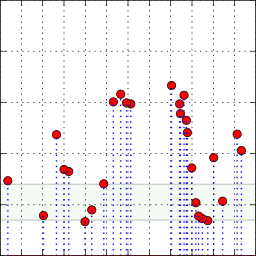
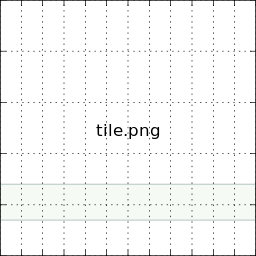
nifty tiles

diff --git a/src/data/lib.js b/src/data/lib.js
@@ -1,0 +1,109 @@
+
+
+/*
+// clone of Linden Lab stuff?
+// http://code.google.com/p/openmetaverse/source/browse/trunk/Simian/GridFrontend/map.php?r=425
+// The relative or absolute URL of your SimianGrid map tile folder
+var TILE_HOST = "/Grid/map/";
+
+// The maximum width/height of the grid in regions (must be a power of two)
+var GRID_WIDTH_IN_REGIONS = 1;
+// Map from a GRID_WIDTH_IN_REGIONS x GRID_WIDTH_IN_REGIONS square to Lat/Long (0, 0),(-90, 90) 
+var SCALE_FACTOR = 90.0 / GRID_WIDTH_IN_REGIONS;
+
+// Override the default Mercator projection with Euclidean projection
+// (insert oblig. Flatland reference here)
+function EuclideanProjection() {
+};
+
+EuclideanProjection.prototype.fromLatLngToPoint = function(latLng, opt_point) {
+        var point = opt_point || new google.maps.Point(0, 0);
+        
+    point.x = latLng.lng() / SCALE_FACTOR;
+    point.y = latLng.lat() / SCALE_FACTOR;
+    
+        return point;
+};
+
+EuclideanProjection.prototype.fromPointToLatLng = function(point) {
+    var lng = point.x * SCALE_FACTOR;
+    var lat = point.y * SCALE_FACTOR;
+    
+        return new google.maps.LatLng(lat, lng, true);
+};
+*/
+
+// Configure options for the map
+/*
+var imageMapOptions = {
+        getTileUrl: function(coord, zoom) {
+                var gridZoom = 8 - zoom;
+            var regions_per_tile_edge = Math.pow(2, gridZoom - 1);
+                
+            // Convert from tile coordinates to world coordinates
+                var x = coord.x * regions_per_tile_edge;
+                var y = coord.y * regions_per_tile_edge;
+                
+                // Flip the y axis
+            y = -y;
+                
+            // Orient the y axis from the bottom-left corner instead of the top-left
+            y -= regions_per_tile_edge;
+            
+            // Adjust x/y to the lower-left tile for this zoom level
+            x -= x % regions_per_tile_edge;
+            y -= y % regions_per_tile_edge;  
+            
+            return TILE_HOST + "map-" + gridZoom + "-" + x + "-" + y + "-objects.png";
+        },
+        tileSize: new google.maps.Size(256, 256),
+        minZoom: 0,
+        maxZoom: 7,
+        isPng: true
+};
+*/
+
+
+// http://facstaff.unca.edu/mcmcclur/GoogleMaps/Projections/Geographic.html
+// this is v2??
+/*
+function GeographicProjection() {};
+GeographicProjection.prototype = new GProjection();
+GeographicProjection.prototype.fromPixelToLatLng = function(pixel, zoom) {
+  return new GLatLng(
+    90 - 45*pixel.y/Math.pow(2,zoom + 5),
+    (45*pixel.x/Math.pow(2,zoom + 5)) - 180);
+};
+GeographicProjection.prototype.fromLatLngToPixel = function(latLng, zoom) {
+  return new GPoint(
+    Math.floor((latLng.lng() + 180)*Math.pow(2, zoom+5)/45),
+    Math.floor((90 - latLng.lat())*Math.pow(2, zoom+5)/45));
+};
+GeographicProjection.prototype.tileCheckRange = function(tileIndex, zoom, bs) {
+  if(0 <= tileIndex.x && tileIndex.x < Math.pow(2,zoom) &&
+     0 <= tileIndex.y && tileIndex.y < Math.pow(2,zoom-1)) {
+       return true;}
+  else { return false; };
+};
+GeographicProjection.prototype.getWrapWidth = function(zoom) {
+  return Math.pow(2,zoom+8);
+};
+
+*/
+
+// http://stackoverflow.com/questions/2915944/replacing-gtilelayer-in-google-maps-v3-with-imagemaptype-tile-bounding-box
+/*
+var StackOverFlowSimpleMapType = new google.maps.ImageMapType({
+  getTileUrl: function(coord,zoom) { 
+    var proj = map.getProjection();
+    var zfactor=Math.pow(2,zoom);
+    var top=proj.fromPointToLatLng(new google.maps.Point(coord.x*256/zfactor,coord.y*256/zfactor));
+    var bot=proj.fromPointToLatLng(new google.maps.Point((coord.x+1)*256/zfactor,(coord.y+1)*256/zfactor));
+    url = "/layer/layer_"+zoom+"_"+top.lng().toFixed(6)+"_"+bot.lat().toFixed(6)+"_"+bot.lng().toFixed(6)+"_"+top.lat().toFixed(6)+".png";
+return url; 
+},
+tileSize: new google.maps.Size(256, 256),
+isPng: true,
+});
+
+*/

diff --git a/src/data/map.html b/src/data/map.html
@@ -64,7 +64,7 @@
   prefix = "file:///home/bewest/Documents/bb/diabetes/src/data/"
   var HelloLayer = new google.maps.ImageMapType({
     getTileUrl: function(ll, z) {
-      var url = prefix + "./test.png#?" + z + "/" + ll.x + "/" + ll.y + "";
+      var url = prefix + "tiles/t-" + ll.x + "-" + ll.y + ".png#" + z;
       console.log( this, arguments, url );
       return url;
     },
@@ -147,6 +147,11 @@ var getTile = function( coord,  zoom ) {
 
 // HelloLayer.projection = new HelloProjection();  
 
+function logevent( ) {
+  console.log( 'event', this, arguments );
+  console.log( 'projection?', this.getProjection ? this.getProjection( ) : null );
+}
+
 (function($) {
   $(document).ready( function( ) {
     console.log( 'ready' );
@@ -155,7 +160,7 @@ var getTile = function( coord,  zoom ) {
 
     test.map = $( '#map' );
     // test.map = $( '#map' );
-    var latlng = new google.maps.LatLng(-34.397, 150.644);
+    var latlng = new google.maps.LatLng(0, 0);
     var myOptions = {
       zoom: 8,
       center: latlng,
@@ -171,6 +176,10 @@ var getTile = function( coord,  zoom ) {
 
     test.gmap = new google.maps.Map( test.map[ 0 ], myOptions );
     //test.gmap.overlayMapTypes.push(HelloLayer);
+    // panBy(x:number, y:number)
+    google.maps.event.addListener(test.gmap, 'dragend', logevent);
+    google.maps.event.addListener(test.gmap, 'dragstart', logevent);
+
 
     // test.gmap.overlayMapTypes.insertAt(0, HelloLayer);
     test.gmap.mapTypes.set('HelloLayer', HelloLayer);
@@ -181,6 +190,69 @@ var getTile = function( coord,  zoom ) {
 
     
 })( jQuery );
+
+
+// http://maps.forum.nu/gm_function_plotter.html
+// ====== Create the Euclidean Projection for the flat map ======
+// == Constructor ==
+function EuclideanProjection(maxzoom){
+  this.pixelsPerLonDegree = [];
+  this.pixelsPerLonRadian = [];
+  this.pixelOrigo = [];
+  this.tileBounds = [];
+  var b = 256;
+  var c = 1;
+  for(var d = 0; d < maxzoom ; d++){
+    var e = b/2;
+    this.pixelsPerLonDegree.push(b / 360);
+    this.pixelsPerLonRadian.push(b / (2*Math.PI));
+    this.pixelOrigo.push(new GPoint(e,e));
+    this.tileBounds.push(c);
+    b *= 2;
+    c *= 2
+  }
+}
+
+// == Attach it to the GProjection() class ==
+// EuclideanProjection.prototype = new GProjection();
+// EuclideanProjection.prototype = new google.maps.Projection( )
+
+
+// == A method for converting latitudes and longitudes to pixel coordinates == 
+EuclideanProjection.prototype.fromLatLngToPixel = function(a,b){
+  var c = Math.round(this.pixelOrigo[b].x + a.lng()* this.pixelsPerLonDegree[b]);
+  var d = Math.round(this.pixelOrigo[b].y + (-1 * a.lat()) * this.pixelsPerLonDegree[b]);
+  return new GPoint(c,d)
+};
+
+// == a method for converting pixel coordinates to latitudes and longitudes ==
+EuclideanProjection.prototype.fromPixelToLatLng = function(a,b,c){
+  var d = (a.x - this.pixelOrigo[b].x) / this.pixelsPerLonDegree[b];
+  var e = -1 * (a.y - this.pixelOrigo[b].y) / this.pixelsPerLonDegree[b];
+  return new GLatLng(e,d,c)
+};
+
+// == a method that checks if the y value is in range, and wraps the x value ==
+EuclideanProjection.prototype.tileCheckRange = function(a,b,c){
+  var d=this.tileBounds[b];
+  if (a.y < 0 || a.y >= d) {
+    return false;
+  }
+  if(a.x < 0 || a.x >= d){
+    a.x = a.x % d;
+    if ( a.x < 0 ){
+      a.x += d;
+    }
+  }
+  return true
+}
+
+// == a method that returns the width of the tilespace ==     
+EuclideanProjection.prototype.getWrapWidth = function(zoom) {
+  return this.tileBounds[zoom] * 256;
+}
+
+
 
 function init( ) {
     

diff --git a/src/data/timeplot.html b/src/data/timeplot.html
@@ -1,0 +1,90 @@
+<!DOCTYPE HTML>
+<html>
+<head>
+<title>Test</title>
+<style type="text/css">
+</style>
+  <script src="http://api.simile-widgets.org/timeplot/1.1/timeplot-api.js" 
+     type="text/javascript"></script>
+<script type="text/javascript" src="https://ajax.googleapis.com/ajax/libs/jquery/1.4.4/jquery.min.js"></script>
+
+<script type="text/javascript" src="js/jquery.svg.js"></script>
+
+<script type="text/javascript">
+(function($) {
+  console.log( this, arguments );
+  $(document).load( function( ) {
+    console.log( 'ready' );
+    var svg = $( '#svg' )[ 0 ];
+    var svgdoc  = $(svg).svg( 'after',
+                    svg.getSVGDocument( ),
+                    svg, { } );
+    console.log( svg, $(svg).svg( 'get' ) );
+  } );
+  onLoad( );
+  console.log( timeplot );
+})( jQuery );
+
+
+
+var timeplot;
+ 
+function onLoad() {
+  var plotInfo = [
+    Timeplot.createPlotInfo({
+      id: "plot1"
+    })
+  ];
+ 
+  console.log( jQuery( 'my-timeplot' ), jQuery( 'my-timeplot' )[ 0 ] );
+  timeplot = Timeplot.create( jQuery("my-timeplot")[0], plotInfo );
+}
+ 
+var resizeTimerID = null;
+function onResize() {
+    if (resizeTimerID == null) {
+        resizeTimerID = window.setTimeout(function() {
+            resizeTimerID = null;
+            timeplot.repaint();
+        }, 100);
+    }
+}
+
+
+/*
+(function($) {
+  $(document).load(onLoad);
+
+})( jQuery );
+(function($) {
+  console.log( this, arguments );
+  // $(document).load(onLoad);
+})( jQuery );
+*/
+
+</script>
+</head>
+<body>
+
+<h1>Test</h1>
+<a href="map.html">map test</a>
+
+<div id="svg_embed">
+<embed id="svg"
+       src="./test.svg"
+       type="image/svg+xml"
+       ></embed>
+
+<img src="./tile.png"/>
+</div>
+
+<div>
+
+</div>
+<div id="timeplot_wrapper">
+<div id="my-timeplot"></div>
+</div>
+
+
+</body>
+</html>

diff --git a/src/data/make_tiles.py b/src/data/make_tiles.py
@@ -1,0 +1,61 @@
+#!/usr/bin/python
+
+from matplotlib.dates import AutoDateLocator
+from matplotlib import dates
+from matplotlib.backends.backend_cairo import FigureCanvasCairo as FigureCanvas
+
+from matplotlib.figure import Figure
+from matplotlib import pyplot as plt
+import datetime
+
+def day_range( start, end ):
+  pass
+  
+def draw_date_grid( prefix="tiles/", grid=(6,6) ):
+  xmax, ymax = grid
+  for x in range( xmax ):
+    for y in range( ymax ):
+      name = prefix + 't-{x}-{y}.png'.format( x=x, y=y )
+      draw_tile( name )
+
+def draw_tile( name ):
+  fig = Figure( ( 2.56, 2.56 ), 300 )
+  canvas = FigureCanvas(fig)
+  ax = fig.add_axes((0,0,1,1))
+  SAFE = ( 70, 140 )
+
+  ax.set_ylim( [ 0 , 500 ] )
+
+  preferspan = ax.axhspan( SAFE[0], SAFE[1],
+                           facecolor='g', alpha=0.2,
+                           edgecolor = '#003333',
+                           linewidth=1
+                         )
+  # XXX: gets a list of days.
+  timestamps = datetime.date.today( )
+  halfday = dates.relativedelta( hours=12 )
+  soleday = dates.relativedelta( days=1 )
+  xmin, xmax = ( timestamps, timestamps + soleday )
+  ax.set_xlim( [ xmin, xmax ] )
+  #fig.autofmt_xdate( )
+  #plot_glucose_stems( ax, ts )
+  plt.setp(ax.get_xminorticklabels(), visible=False )
+  plt.setp(ax.get_xmajorticklabels(), visible=False )
+  plt.setp(ax.get_ymajorticklabels(), visible=False )
+  plt.setp(ax.get_yminorticklabels(), visible=False )
+  ax.text( .50, .50, name,
+           horizontalalignment='center',
+           verticalalignment='center',
+           transform = ax.transAxes )
+  ax.grid(True)
+
+  canvas.print_figure( name )
+
+
+
+if __name__ == '__main__':
+  draw_tile( 'tile.png' )
+  draw_date_grid( )
+
+#####
+# EOF
